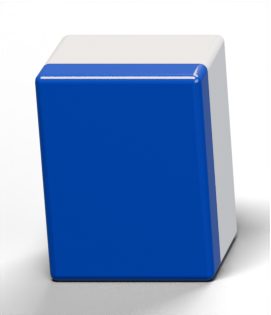
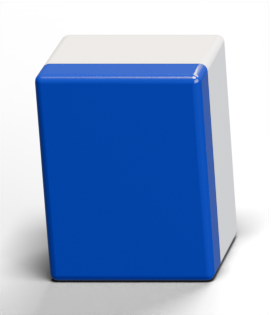
render: spherical light rig centred overhead, exposed in the tuner
The key was 21 degrees left of front, which is why the left edge carried the
highlight. Store the rig in spherical coordinates around each target
(azimuth/elevation/distance) and move the key to azimuth 0, elevation 74 so the
upright tile is lit from the top with no left bias. The fill stays at 46/12 (a
more frontal fill puts a broad specular sheen on the glossy paint and washes the
red out: measured floor RGB(204,18,1) at 46 vs RGB(214,163,168) at 25). Rim at
170/45; ambient 0.35.

Expose the lighting in the tuner: key azimuth/elevation/power/softness, fill
azimuth/elevation/power, rim power and ambient strength, with a live top-view
compass. Keep the user's applied carve values (depth 0.0039, transition 0.35 mm,
spreads 1/0.39, red #a60c0c).

Regenerate the spike and document the spherical rig, the fill-sheen caveat and
the new tuner controls.

diff --git a/tools/render/tune.html b/tools/render/tune.html
@@ -34,7 +34,7 @@
       header p { margin: 0; color: var(--muted); font-size: 13px; }
       main {
         display: grid;
-        grid-template-columns: minmax(320px, 420px) minmax(360px, 1fr);
+        grid-template-columns: minmax(320px, 430px) minmax(360px, 1fr);
         gap: 20px;
         padding: 20px 24px 40px;
         align-items: start;
@@ -77,6 +77,20 @@
         background: none;
         padding: 2px;
       }
+      details {
+        border-top: 1px solid var(--line);
+        padding-top: 14px;
+        margin-top: 6px;
+      }
+      summary {
+        cursor: pointer;
+        font-size: 13px;
+        font-weight: 600;
+        text-transform: uppercase;
+        letter-spacing: 0.08em;
+        color: var(--muted);
+        margin-bottom: 12px;
+      }
       .buttons { display: flex; gap: 8px; flex-wrap: wrap; margin-top: 20px; }
       button {
         font: inherit;
@@ -92,6 +106,7 @@
       button:disabled { opacity: 0.45; cursor: default; }
       #status { margin-top: 14px; font-size: 12.5px; color: var(--muted); min-height: 20px; }
       #status.error { color: #ff9b8a; }
+      #compass { width: 100%; max-width: 430px; height: auto; display: block; margin: 0 auto; }
       #profile { width: 100%; height: auto; display: block; }
       #decalWrap {
         margin-top: 14px;
@@ -172,6 +187,51 @@
           <div class="hint">Render cost only; denoised either way.</div>
         </div>
 
+        <details open>
+          <summary>Lighting</summary>
+          <div class="hint" style="margin-bottom: 12px">
+            Azimuth is around the tile: 0° front, 90° right, 180° behind, 270° left.
+            Elevation is degrees above horizontal; a top-lit upright tile wants the key near 0° / 70–80°.
+          </div>
+
+          <div class="control">
+            <div class="row"><label for="keyAzimuth">Key azimuth</label><output id="keyAzimuthOut"></output></div>
+            <input id="keyAzimuth" type="range" min="0" max="360" step="1" />
+          </div>
+          <div class="control">
+            <div class="row"><label for="keyElevation">Key elevation</label><output id="keyElevationOut"></output></div>
+            <input id="keyElevation" type="range" min="0" max="89" step="1" />
+          </div>
+          <div class="control">
+            <div class="row"><label for="keyPower">Key power</label><output id="keyPowerOut"></output></div>
+            <input id="keyPower" type="range" min="0" max="200000" step="2000" />
+          </div>
+          <div class="control">
+            <div class="row"><label for="keySize">Key softness</label><output id="keySizeOut"></output></div>
+            <input id="keySize" type="range" min="4" max="60" step="1" />
+          </div>
+          <div class="control">
+            <div class="row"><label for="fillAzimuth">Fill azimuth</label><output id="fillAzimuthOut"></output></div>
+            <input id="fillAzimuth" type="range" min="0" max="360" step="1" />
+          </div>
+          <div class="control">
+            <div class="row"><label for="fillElevation">Fill elevation</label><output id="fillElevationOut"></output></div>
+            <input id="fillElevation" type="range" min="0" max="89" step="1" />
+          </div>
+          <div class="control">
+            <div class="row"><label for="fillPower">Fill power</label><output id="fillPowerOut"></output></div>
+            <input id="fillPower" type="range" min="0" max="120000" step="1000" />
+          </div>
+          <div class="control">
+            <div class="row"><label for="rimPower">Rim power</label><output id="rimPowerOut"></output></div>
+            <input id="rimPower" type="range" min="0" max="120000" step="1000" />
+          </div>
+          <div class="control">
+            <div class="row"><label for="worldStrength">Ambient strength</label><output id="worldStrengthOut"></output></div>
+            <input id="worldStrength" type="range" min="0" max="1.5" step="0.01" />
+          </div>
+        </details>
+
         <div class="buttons">
           <button id="render" class="primary">Render preview</button>
           <button id="apply">Apply to spec</button>
@@ -181,7 +241,10 @@
       </section>
 
       <section>
-        <h2>Cross-section</h2>
+        <h2>Light rig (top view)</h2>
+        <svg id="compass" viewBox="0 0 420 160" aria-label="light directions"></svg>
+
+        <h2 style="margin-top: 18px">Cross-section</h2>
         <svg id="profile" viewBox="0 0 420 180" aria-label="groove cross-section"></svg>
         <div class="hint" id="profileNote"></div>
 
@@ -200,6 +263,15 @@
         "bottomSpread",
         "blurMm",
         "paintEdge",
+        "keyAzimuth",
+        "keyElevation",
+        "keyPower",
+        "keySize",
+        "fillAzimuth",
+        "fillElevation",
+        "fillPower",
+        "rimPower",
+        "worldStrength",
         "samples",
       ];
       const el = (id) => document.getElementById(id);
@@ -214,19 +286,40 @@
           bottomSpread: Number(el("bottomSpread").value),
           blurMm: Number(el("blurMm").value),
           paintEdge: Number(el("paintEdge").value),
+          keyAzimuth: Number(el("keyAzimuth").value),
+          keyElevation: Number(el("keyElevation").value),
+          keyPower: Number(el("keyPower").value),
+          keySize: Number(el("keySize").value),
+          fillAzimuth: Number(el("fillAzimuth").value),
+          fillElevation: Number(el("fillElevation").value),
+          fillPower: Number(el("fillPower").value),
+          rimPower: Number(el("rimPower").value),
+          worldStrength: Number(el("worldStrength").value),
           samples: Number(el("samples").value),
         };
       }
 
       function writeParams(params) {
-        el("paintRed").value = params.paintRed;
-        el("depth").value = params.depth;
-        el("transitionMm").value = params.transitionMm;
-        el("topSpread").value = params.topSpread;
-        el("bottomSpread").value = params.bottomSpread;
-        el("blurMm").value = params.blurMm;
-        el("paintEdge").value = params.paintEdge;
-        el("samples").value = params.samples ?? 48;
+        const set = (id, value) => {
+          if (value !== undefined) el(id).value = value;
+        };
+        set("paintRed", params.paintRed);
+        set("depth", params.depth);
+        set("transitionMm", params.transitionMm);
+        set("topSpread", params.topSpread);
+        set("bottomSpread", params.bottomSpread);
+        set("blurMm", params.blurMm);
+        set("paintEdge", params.paintEdge);
+        set("keyAzimuth", params.keyAzimuth);
+        set("keyElevation", params.keyElevation);
+        set("keyPower", params.keyPower);
+        set("keySize", params.keySize);
+        set("fillAzimuth", params.fillAzimuth);
+        set("fillElevation", params.fillElevation);
+        set("fillPower", params.fillPower);
+        set("rimPower", params.rimPower);
+        set("worldStrength", params.worldStrength);
+        set("samples", params.samples ?? 48);
       }
 
       // Same cubic Bézier as build_and_render.py: P0=(0,0), P1=(top,0),
@@ -240,6 +333,47 @@
             t * t * t,
           y: t * t * (3 - 2 * t),
         };
+      }
+
+      function drawCompass() {
+        const params = readParams();
+        const cx = 210;
+        const cy = 82;
+        const r = 52;
+        const point = (az) => ({
+          x: cx + Math.sin((az * Math.PI) / 180) * r,
+          y: cy + Math.cos((az * Math.PI) / 180) * r,
+        });
+        const key = point(params.keyAzimuth);
+        const fill = point(params.fillAzimuth);
+        const arrow = (p, colour, label, elevation) => `
+          <line x1="${cx}" y1="${cy}" x2="${p.x}" y2="${p.y}" stroke="${colour}" stroke-width="2.2" marker-end="url(#arrow-${label})"></line>
+          <text x="${p.x + (p.x - cx) * 0.28}" y="${p.y + (p.y - cy) * 0.28}" fill="${colour}" font-size="10" text-anchor="middle">${label} ${elevation}°</text>`;
+        const svg = el("compass");
+        svg.innerHTML = `
+          <defs>
+            <marker id="arrow-key" markerWidth="7" markerHeight="7" refX="5" refY="3.5" orient="auto"><path d="M0,0 L7,3.5 L0,7 Z" fill="#ffd9a0"/></marker>
+            <marker id="arrow-fill" markerWidth="7" markerHeight="7" refX="5" refY="3.5" orient="auto"><path d="M0,0 L7,3.5 L0,7 Z" fill="#9fc6ff"/></marker>
+          </defs>
+          <circle cx="${cx}" cy="${cy}" r="${r}" fill="none" stroke="#24382f"></circle>
+          <text x="${cx}" y="${cy + r + 24}" fill="#8fb2a4" font-size="11" text-anchor="middle">front</text>
+          <text x="${cx}" y="${cy - r - 10}" fill="#8fb2a4" font-size="11" text-anchor="middle">back</text>
+          <text x="${cx - r - 14}" y="${cy + 4}" fill="#8fb2a4" font-size="11" text-anchor="middle">L</text>
+          <text x="${cx + r + 14}" y="${cy + 4}" fill="#8fb2a4" font-size="11" text-anchor="middle">R</text>
+          <rect x="${cx - 6}" y="${cy + r - 14}" width="12" height="18" rx="2" fill="#f5f0eb" opacity="0.75"></rect>
+          ${arrow(key, "#ffd9a0", "key", params.keyElevation)}
+          ${arrow(fill, "#9fc6ff", "fill", params.fillElevation)}
+          <text x="12" y="152" fill="#5f7d6e" font-size="10">top-view azimuth · tile face points to front</text>
+        `;
+        el("keyAzimuthOut").textContent = `${params.keyAzimuth}°`;
+        el("keyElevationOut").textContent = `${params.keyElevation}°`;
+        el("keyPowerOut").textContent = `${(params.keyPower / 1000).toFixed(1)} kW`;
+        el("keySizeOut").textContent = `${params.keySize}`;
+        el("fillAzimuthOut").textContent = `${params.fillAzimuth}°`;
+        el("fillElevationOut").textContent = `${params.fillElevation}°`;
+        el("fillPowerOut").textContent = `${(params.fillPower / 1000).toFixed(1)} kW`;
+        el("rimPowerOut").textContent = `${(params.rimPower / 1000).toFixed(1)} kW`;
+        el("worldStrengthOut").textContent = params.worldStrength.toFixed(2);
       }
 
       function drawProfile() {
@@ -267,7 +401,6 @@
         }
         const curveEnd = bottomPath[bottomPath.length - 1];
 
-        // Invert x(t) for the paint edge marker.
         let paintT = 0;
         for (let i = 0; i <= 400; i += 1) {
           const t = i / 400;
@@ -280,8 +413,6 @@
         const paintX = xOf(paintPoint.x * transitionMm);
         const paintY = faceY + paintPoint.y * depthPx;
         const paintInsetMm = params.paintEdge * transitionMm;
-
-        // Vertical exaggeration relative to the horizontal scale.
         const exaggeration = (depthPx / Math.max(depthMm, 0.001)) / pxPerMm;
 
         svg.innerHTML = `
@@ -312,6 +443,11 @@
         el("decalDims").textContent = "preview 2× · final 3×";
       }
 
+      function drawAll() {
+        drawProfile();
+        drawCompass();
+      }
+
       function setStatus(message, isError = false) {
         const status = el("status");
         status.textContent = message;
@@ -325,7 +461,7 @@
         state.thicknessMm = data.params.tileThicknessMm;
         state.faceHeightMm = data.params.faceHeightMm;
         writeParams(data.params);
-        drawProfile();
+        drawAll();
         if (data.decalExists) {
           el("decal").src = data.decal;
           el("decalTime").textContent = "last preview loaded";
@@ -378,13 +514,13 @@
       }
 
       for (const id of ids) {
-        el(id).addEventListener("input", drawProfile);
+        el(id).addEventListener("input", drawAll);
       }
       el("render").addEventListener("click", renderPreview);
       el("apply").addEventListener("click", applyParams);
       el("reset").addEventListener("click", () => {
         writeParams(state.params);
-        drawProfile();
+        drawAll();
         setStatus("Reset to the values in scene-spec.json.");
       });
 

diff --git a/tools/render/build_and_render.py b/tools/render/build_and_render.py
@@ -322,6 +322,13 @@ def build_camera(scene: bpy.types.Scene, spec: dict) -> bpy.types.Object:
 
 
 def build_lights(scene: bpy.types.Scene, spec: dict) -> None:
+    """Place the area rig from spherical coordinates around each target.
+
+    azimuth 0 points at the player (front, -Y), 90 is +X (right), 180 is +Y
+    (behind) and 270 is -X (left); elevation is degrees above the horizontal.
+    That makes "light from above the tile" a single number and keeps the tuner's
+    direction sliders meaningful.
+    """
     for entry in spec["lights"]:
         data = bpy.data.lights.new(entry["id"], "AREA")
         data.shape = "RECTANGLE"
@@ -329,9 +336,19 @@ def build_lights(scene: bpy.types.Scene, spec: dict) -> None:
         data.size_y = entry["sizeY"]
         data.energy = entry["energyW"]
         data.color = hex_linear(entry["hex"])[:3]
+        target = Vector(entry["target"])
+        azimuth = math.radians(entry["azimuthDeg"])
+        elevation = math.radians(entry["elevationDeg"])
+        direction = Vector(
+            (
+                math.sin(azimuth) * math.cos(elevation),
+                -math.cos(azimuth) * math.cos(elevation),
+                math.sin(elevation),
+            )
+        )
         obj = new_object(entry["id"], data)
-        obj.location = Vector(entry["location"])
-        aim(obj, entry["target"])
+        obj.location = target + direction * entry["distance"]
+        aim(obj, target)
 
 
 # --------------------------------------------------------------------------- #

diff --git a/tools/render/README.md b/tools/render/README.md
@@ -85,7 +85,11 @@ It serves a browser UI (no build step, local only) with:
 - **top fillet spread** and **bottom fillet spread** — the two independent
   Bézier controls, drawn live as the exact cross-section the mesh uses;
 - **mask blur** (mm), **paint edge** (fraction + mm inset) and **preview
-  samples**.
+  samples**;
+- **lighting**: key azimuth/elevation/power/softness, fill azimuth/elevation/
+  power, rim power and ambient strength, with a live top-view compass of the
+  rig. The preview shows the effect on the decal; the body sprites need the full
+  render.
 
 "Render preview" writes a throwaway spec, rasterises the recoloured symbol and
 renders **only the decal** at 2×, 48 samples, a 0.6 carve grid and 4 AO samples —
@@ -285,15 +289,28 @@ decal edge. The fix (unpremultiply the bilinearly sampled decal before the
 straight-alpha `over`) is in `warp_onto`; if a seam ever returns, check alpha
 handling there before touching the inset.
 
-### Lighting: top-heavy key
+### Lighting: top-heavy key, spherical controls
 
 Tenhou reads as a table lit from above: the edge of a tile facing up is the
-brightest surface. The key is a large area light almost overhead (~52 units up,
-20 units in front of the hand row), so the top edge (normal +Z) takes ~95% of
-its irradiance while the vertical face takes ~29%. A lower front-right fill and
-a rear rim keep the face readable and give the side and bevel shapes their
-distinction. The effect comes from the light *angle*, not from moving the light
-closer — see the position-independence constraint below.
+brightest surface. The rig is stored in **spherical coordinates** around each
+light's target (`azimuthDeg`, `elevationDeg`, `distance`; azimuth 0 is front,
+90 right, 180 behind, 270 left), which is what the tuner's direction sliders
+edit. `build_lights` turns those into positions; do not hand-place xyz.
+
+- **key**: azimuth 0, elevation 74, 56 units out. Centred over the hand row, so
+  the up-facing top edge takes ~95% of its irradiance and the vertical face
+  ~28%; nothing is biased to the left any more.
+- **fill**: azimuth 46, elevation 12, 34 units. Lights the face and the right
+  side.
+- **rim**: azimuth 170, elevation 45, 40 units, behind.
+- **ambient** world strength 0.35.
+
+Watch the fill azimuth: at 25° it sits close to the face's specular mirror and
+the glossy paint picks up a broad white sheen (measured red floor went from
+RGB(204, 18, 1) at 46° to RGB(214, 163, 168) at 25°). Keep it around 45° or drop
+its power; the tuner exposes it so you can see this directly. The effect comes
+from the light *angle*, not from moving the light closer — see the
+position-independence constraint below.
 
 ### Lighting must be position-independent for decals (§5/§12.3 consequence)
 

diff --git a/rendered-table-plan.md b/rendered-table-plan.md
@@ -414,9 +414,13 @@ for Tasks 2–3:
   face. Consequence for Task 3: each code needs its symbol-only SVG and a
   ~330k-vertex face at `gridScale: 1.0`; expect ~80 s per decal render with AO
   and cut `gridScale`/AO samples for the 190-decal set.
-- **Lighting is top-heavy.** The key sits almost overhead, so the up-facing edge
-  is the brightest surface (Tenhou's read); the fill is low and frontal, and the
-  rim is behind. The angles do the work; the rig stays distant for decals.
+- **Lighting is top-heavy.** The rig is spherical (azimuth/elevation/distance
+  around each target): the key sits at 0° / 74° over the hand row, so the
+  up-facing edge is the brightest surface with no left/right bias; the fill is
+  at 46° / 12° and the rim behind at 170° / 45°. The angles do the work; the rig
+  stays distant for decals. A frontal fill (< ~35° azimuth) puts a broad
+  specular sheen on the glossy paint and washes the red out, so it is kept at
+  ~45°.
 
 ## 13. Task chain
 
